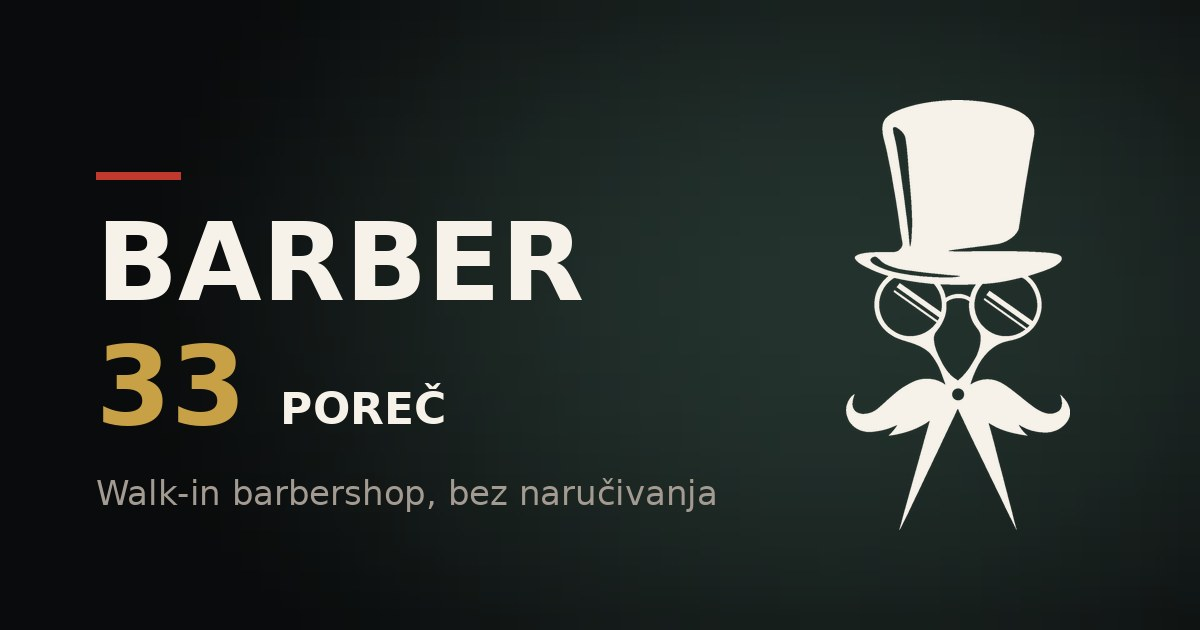
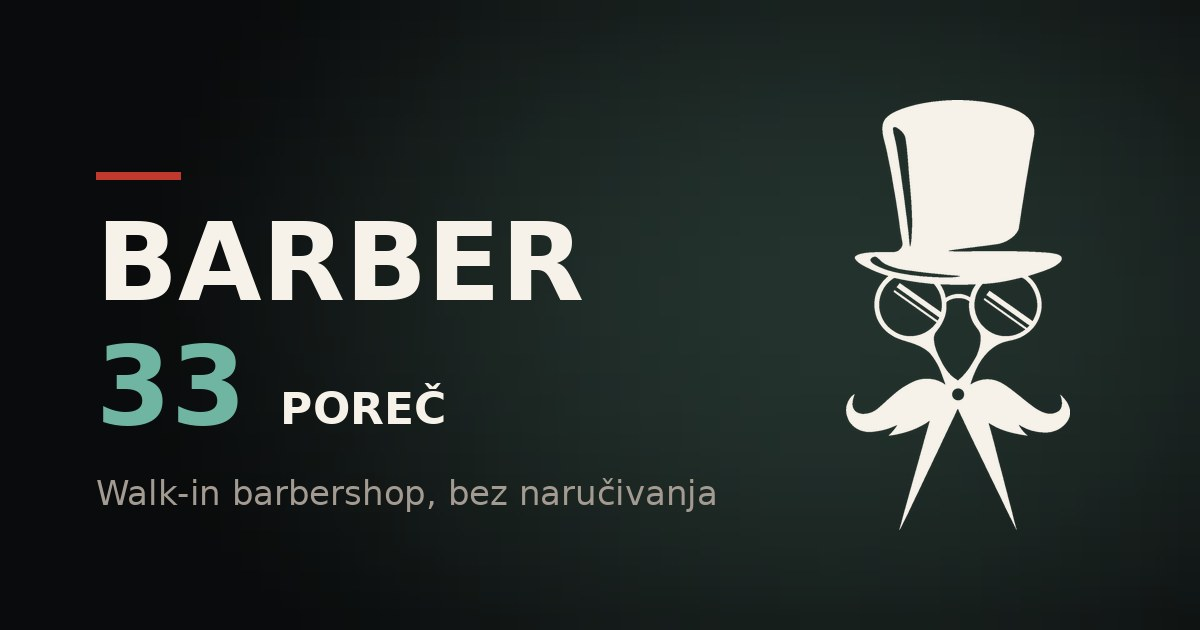
Make the accent the shop's green instead of gold
The gold was invented. The green is the wall, so the headline now
carries the same colour as the room behind it in the photograph, and
the whole page belongs to the shop rather than to a palette.

The accent is #6FB5A2, the lit wall rather than the deep one, chosen
on contrast rather than by eye: 8.3:1 on the page background, which is
within a hair of the 8.0:1 the gold was sitting at. Nothing changed
weight when the colour changed, so the page did not need rebalancing
afterwards. It carries dark text at 7.2:1 where it is a solid fill,
the button and the ticker band, and a brighter --acc-2 handles the
accents that land on the deep green band itself, where the plain
accent would have dropped to 5.9:1.

Renamed rather than redefined. Leaving a --brass token holding a green
would have been a lie every future reader had to step over.

The share card's "33" follows, so make-brand.py was changed and the
image regenerated rather than left gold.

Claude-Session: https://claude.ai/code/session_018mZyGPfTtgXbiYUSJFA7F1

Changed region(s): [[0.0617, 0.5429, 0.2158, 0.6937]]

diff --git a/index.html b/index.html
@@ -91,10 +91,15 @@
 /* =========================================================
    TOKENS
 
-   The green is the shop's own wall, sampled off the photographs
-   rather than picked from a palette, and it is the green the logo
-   is drawn in. It is the one colour a customer already recognises
-   from standing in the room.
+   Green throughout, because it is the shop's own: the wall sampled
+   off the photographs rather than picked from a palette, and the
+   colour the logo is drawn in. It is the one colour a customer
+   already recognises from standing in the room.
+
+   --green is the deep wall, for whole bands. --acc is the lit wall,
+   and it is the accent: 8.3:1 on the page, which is where the gold
+   it replaced sat, so nothing changed weight when the colour did.
+   --acc-2 is brighter, for the accents that land on --green itself.
 
    There is no red here. The barber red fails contrast at text sizes
    on this background, and the one thing it was doing, a short rule in
@@ -104,7 +109,7 @@
   --ink:#0A0B0C; --ink-2:#101214; --ink-3:#171A1D;
   --green:#12302A; --green-2:#5B9A8B;
   --cream:#F6F2EA; --cream-2:#CFC8BD; --muted:#978F85;
-  --brass:#C8A046; --brass-2:#E2BE6B;
+  --acc:#6FB5A2; --acc-2:#8FC9B9;
   --line:rgba(246,242,234,.11); --line-2:rgba(246,242,234,.06);
   --ok:#5BBE7E;
 
@@ -142,7 +147,7 @@ h1{font-size:clamp(38px,8.6vw,88px);font-weight:700;line-height:.92;letter-spaci
 h2{font-size:clamp(27px,4.8vw,50px);line-height:.98;letter-spacing:-.012em;}
 h3{font-size:19px;line-height:1.2;letter-spacing:.005em;}
 
-:focus-visible{outline:2px solid var(--brass);outline-offset:3px;border-radius:2px;}
+:focus-visible{outline:2px solid var(--acc);outline-offset:3px;border-radius:2px;}
 
 .wrap{max-width:var(--wrap);margin:0 auto;padding:0 20px;}
 section{padding:clamp(60px,9vw,120px) 0;}
@@ -153,7 +158,7 @@ section{padding:clamp(60px,9vw,120px) 0;}
 .eyebrow{
   display:inline-block;
   font:600 11.5px/1 var(--body);letter-spacing:.19em;text-transform:uppercase;
-  color:var(--brass);
+  color:var(--acc);
 }
 .sec-head{max-width:660px;margin-bottom:clamp(30px,4.6vw,52px);position:relative;}
 .sec-head h2{margin:15px 0 15px;}
@@ -196,11 +201,11 @@ section{padding:clamp(60px,9vw,120px) 0;}
 /* Press feedback is instant and lives on the press, not on release. */
 .btn:active{transform:scale(.97);}
 
-.btn-1{background:var(--brass);color:#14100A;}
-.btn-1 .btn-fill{background:var(--cream);color:#14100A;}
+.btn-1{background:var(--acc);color:#07201B;}
+.btn-1 .btn-fill{background:var(--cream);color:#07201B;}
 .btn-2{background:rgba(10,11,12,.4);color:var(--cream);border-color:rgba(246,242,234,.28);
   backdrop-filter:blur(4px);}
-.btn-2 .btn-fill{background:var(--cream);color:#14100A;}
+.btn-2 .btn-fill{background:var(--cream);color:#07201B;}
 
 @media (hover:hover) and (pointer:fine){
   .btn:hover .btn-fill{clip-path:inset(0 0 0 0);}
@@ -237,14 +242,14 @@ section{padding:clamp(60px,9vw,120px) 0;}
 }
 .boot-mark span{display:block;transform:translateY(110%);
   animation:bootUp 620ms var(--out) forwards;}
-.boot-mark .n{color:var(--brass);animation-delay:90ms;}
+.boot-mark .n{color:var(--acc);animation-delay:90ms;}
 @keyframes bootUp{ to{transform:translateY(0);} }
 .boot-bar{
   width:min(210px,42vw);height:2px;margin-top:26px;
   background:rgba(246,242,234,.13);overflow:hidden;
 }
 .boot-bar i{
-  display:block;height:100%;background:var(--brass);
+  display:block;height:100%;background:var(--acc);
   transform:scaleX(0);transform-origin:left;
   animation:bootBar 1400ms linear forwards;
 }
@@ -266,7 +271,7 @@ header.stuck{background:rgba(10,11,12,.9);border-bottom-color:var(--line-2);}
 /* Reading progress. scaleX only, so it never costs a layout. */
 .progress{
   position:absolute;left:0;right:0;bottom:-1px;height:2px;
-  background:var(--brass);transform:scaleX(0);transform-origin:left;
+  background:var(--acc);transform:scaleX(0);transform-origin:left;
   will-change:transform;
 }
 .hd{display:flex;align-items:center;gap:14px;height:66px;}
@@ -276,9 +281,9 @@ header.stuck{background:rgba(10,11,12,.9);border-bottom-color:var(--line-2);}
 .mark{display:block;width:auto;height:34px;aspect-ratio:734/1408;
   color:var(--cream);flex:none;}
 .lockup .mark{transition:color 240ms ease;}
-@media (hover:hover) and (pointer:fine){ .lockup:hover .mark{color:var(--brass);} }
+@media (hover:hover) and (pointer:fine){ .lockup:hover .mark{color:var(--acc);} }
 .lockup b{font:700 19px/1 var(--display);letter-spacing:.06em;text-transform:uppercase;}
-.lockup b i{font-style:normal;color:var(--brass);}
+.lockup b i{font-style:normal;color:var(--acc);}
 .hd nav{display:flex;gap:26px;}
 .hd nav a{
   position:relative;font:500 12.5px/1 var(--body);letter-spacing:.14em;
@@ -288,7 +293,7 @@ header.stuck{background:rgba(10,11,12,.9);border-bottom-color:var(--line-2);}
    appearing whole. */
 .hd nav a::after{
   content:'';position:absolute;left:0;right:0;bottom:0;height:1px;
-  background:var(--brass);transform:scaleX(0);transform-origin:right;
+  background:var(--acc);transform:scaleX(0);transform-origin:right;
   transition:transform 260ms var(--out);
 }
 @media (hover:hover) and (pointer:fine){
@@ -307,7 +312,7 @@ header.stuck{background:rgba(10,11,12,.9);border-bottom-color:var(--line-2);}
 }
 .lang:active{transform:scale(.96);}
 @media (hover:hover) and (pointer:fine){
-  .lang:hover{border-color:var(--brass);color:var(--brass);}
+  .lang:hover{border-color:var(--acc);color:var(--acc);}
 }
 
 /* =========================================================
@@ -342,7 +347,7 @@ header.stuck{background:rgba(10,11,12,.9);border-bottom-color:var(--line-2);}
 .line > span{display:block;transform:translateY(105%);}
 .ready .line > span{transform:translateY(0);
   transition:transform 780ms var(--out) var(--d,0ms);}
-.hero h1 em{font-style:normal;color:var(--brass);}
+.hero h1 em{font-style:normal;color:var(--acc);}
 .hero .lede{margin-top:22px;max-width:31em;}
 .hero-cta{display:flex;flex-wrap:wrap;gap:12px;margin-top:34px;}
 
@@ -360,7 +365,7 @@ header.stuck{background:rgba(10,11,12,.9);border-bottom-color:var(--line-2);}
 }
 .status .dot{width:8px;height:8px;border-radius:50%;background:var(--muted);flex:none;}
 .status.open .dot{background:var(--ok);box-shadow:0 0 0 4px rgba(91,190,126,.15);}
-.status.soon .dot{background:var(--brass);box-shadow:0 0 0 4px rgba(200,160,70,.15);}
+.status.soon .dot{background:var(--acc);box-shadow:0 0 0 4px rgba(111,181,162,.15);}
 .status b{color:var(--cream);font-weight:600;}
 
 /* =========================================================
@@ -369,20 +374,20 @@ header.stuck{background:rgba(10,11,12,.9);border-bottom-color:var(--line-2);}
    ========================================================= */
 .ticker{
   position:relative;
-  background:var(--brass);color:#14100A;overflow:hidden;
+  background:var(--acc);color:#07201B;overflow:hidden;
   padding:13px 0;border-block:1px solid rgba(0,0,0,.18);
 }
 /* The words used to be sliced mid-letter at both ends of the screen. These
-   two are the brass itself, laid over the text, so the line fades out into
-   the band instead of hitting a cut edge. The band stays solid full width;
-   masking the whole strip would have tapered the brass away with it.
+   two are the band's own green, laid over the text, so the line fades out
+   into it instead of hitting a cut edge. The band stays solid full width;
+   masking the whole strip would have tapered the green away with it.
    rgba rather than `transparent` so nothing interpolates through grey. */
 .ticker::before,.ticker::after{
   content:'';position:absolute;top:0;bottom:0;z-index:1;pointer-events:none;
   width:clamp(36px,9vw,130px);
 }
-.ticker::before{left:0; background:linear-gradient(90deg,var(--brass),rgba(200,160,70,0));}
-.ticker::after {right:0;background:linear-gradient(270deg,var(--brass),rgba(200,160,70,0));}
+.ticker::before{left:0; background:linear-gradient(90deg,var(--acc),rgba(111,181,162,0));}
+.ticker::after {right:0;background:linear-gradient(270deg,var(--acc),rgba(111,181,162,0));}
 .ticker-track{display:flex;width:max-content;animation:slide 34s linear infinite;}
 .ticker-track span{
   font:600 13px/1 var(--display);letter-spacing:.22em;text-transform:uppercase;
@@ -403,7 +408,7 @@ header.stuck{background:rgba(10,11,12,.9);border-bottom-color:var(--line-2);}
 .step .n{
   position:absolute;top:-.62em;right:0;
   font:700 clamp(40px,5vw,62px)/1 var(--display);letter-spacing:-.04em;
-  color:transparent;-webkit-text-stroke:1px rgba(200,160,70,.34);
+  color:transparent;-webkit-text-stroke:1px rgba(111,181,162,.34);
 }
 .step h3{margin-bottom:10px;}
 .step p{color:var(--muted);font-size:15px;}
@@ -417,7 +422,7 @@ header.stuck{background:rgba(10,11,12,.9);border-bottom-color:var(--line-2);}
 .ic{
   width:40px;height:40px;border-radius:4px;margin-bottom:18px;
   display:grid;place-items:center;
-  background:rgba(200,160,70,.12);color:var(--brass);
+  background:rgba(111,181,162,.12);color:var(--acc);
 }
 .ic svg{width:20px;height:20px;}
 
@@ -425,8 +430,8 @@ header.stuck{background:rgba(10,11,12,.9);border-bottom-color:var(--line-2);}
 .onwall{background:var(--green);border-block:1px solid rgba(0,0,0,.35);}
 .onwall .card{background:rgba(0,0,0,.2);border-color:rgba(246,242,234,.08);}
 .onwall .card p{color:rgba(246,242,234,.7);}
-.onwall .ic{background:rgba(226,190,107,.14);}
-.onwall .eyebrow{color:var(--brass-2);}
+.onwall .ic{background:rgba(143,201,185,.14);}
+.onwall .eyebrow{color:var(--acc-2);}
 
 /* =========================================================
    PRICE LIST
@@ -439,7 +444,7 @@ header.stuck{background:rgba(10,11,12,.9);border-bottom-color:var(--line-2);}
 /* A hairline that draws itself under the row being read. */
 .row::after{
   content:'';position:absolute;left:0;right:0;bottom:-1px;height:1px;
-  background:var(--brass);transform:scaleX(0);transform-origin:left;
+  background:var(--acc);transform:scaleX(0);transform-origin:left;
   transition:transform 380ms var(--out);
 }
 .row .nm{font-weight:500;font-size:17px;}
@@ -449,7 +454,7 @@ header.stuck{background:rgba(10,11,12,.9);border-bottom-color:var(--line-2);}
 }
 .row .dots{flex:1;border-bottom:1px dotted rgba(246,242,234,.2);min-width:14px;
   transform:translateY(-4px);}
-.row .amt{font:600 19px/1 var(--display);letter-spacing:.03em;color:var(--brass);flex:none;
+.row .amt{font:600 19px/1 var(--display);letter-spacing:.03em;color:var(--acc);flex:none;
   transition:transform 380ms var(--out);}
 @media (hover:hover) and (pointer:fine){
   .row:hover::after{transform:scaleX(1);}
@@ -504,7 +509,7 @@ header.stuck{background:rgba(10,11,12,.9);border-bottom-color:var(--line-2);}
 .hours tr.today td:first-child{position:relative;padding-left:17px;}
 .hours tr.today td:first-child::before{
   content:'';position:absolute;left:0;top:50%;transform:translateY(-50%);
-  width:6px;height:6px;border-radius:50%;background:var(--brass);
+  width:6px;height:6px;border-radius:50%;background:var(--acc);
 }
 .hours td.shut{color:var(--muted);}
 
@@ -516,7 +521,7 @@ header.stuck{background:rgba(10,11,12,.9);border-bottom-color:var(--line-2);}
   .btns{flex-direction:column;align-items:stretch;}
   .btns .btn-face{width:100%;}
 }
-.fill{color:var(--brass);border-bottom:1px dashed var(--brass);opacity:.88;font-style:normal;}
+.fill{color:var(--acc);border-bottom:1px dashed var(--acc);opacity:.88;font-style:normal;}
 .fill::after{content:' ?';font-size:.8em;vertical-align:super;}
 
 .crow{
@@ -529,7 +534,7 @@ header.stuck{background:rgba(10,11,12,.9);border-bottom-color:var(--line-2);}
 .crow .lbl{display:block;font-size:11.5px;letter-spacing:.16em;text-transform:uppercase;
   color:var(--muted);font-weight:600;margin-bottom:3px;}
 .crow b{display:block;font-weight:500;font-size:16.5px;transition:color 200ms ease;}
-@media (hover:hover) and (pointer:fine){ .crow:hover b{color:var(--brass);} }
+@media (hover:hover) and (pointer:fine){ .crow:hover b{color:var(--acc);} }
 
 footer{border-top:1px solid var(--line-2);padding:32px 0 44px;}
 .ft{display:flex;flex-wrap:wrap;gap:12px 26px;align-items:center;

diff --git a/tools/make-brand.py b/tools/make-brand.py
@@ -23,7 +23,7 @@ ASSETS = os.path.join(ROOT, 'assets')
 INK   = (10, 11, 12)
 GREEN = (18, 48, 42)
 CREAM = (246, 242, 234)
-BRASS = (200, 160, 70)
+ACCENT = (111, 181, 162)   # --acc, the lit wall green
 
 MASTER = Image.open(os.path.join(ASSETS, 'logo-mark.png'))   # white on transparent
 SS = 4                                                       # supersample factor
@@ -97,7 +97,7 @@ cd.text((X, 300), 'BARBER', font=B(108), fill=CREAM, anchor='ls')
 # "33" and the town share a baseline; the town is placed off the measured
 # width of the numerals so the two can never collide.
 f33 = B(108)
-cd.text((X, 424), '33', font=f33, fill=BRASS, anchor='ls')
+cd.text((X, 424), '33', font=f33, fill=ACCENT, anchor='ls')
 cd.text((X + cd.textlength('33', font=f33) + 34, 424), 'POREČ',
         font=B(44), fill=CREAM, anchor='ls')
 cd.text((X, 505), 'Walk-in barbershop, bez naručivanja',
